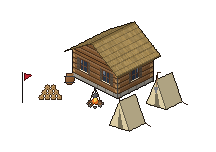
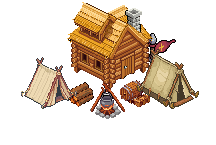
G1: pioneer camp laid out from separate PixelLab pieces; sorting test; docs
The camp drawn whole came with its own patch of earth, wider than its 3x3
tiles and of another colour than our ground (owner's feedback). The cabin,
tents, campfire, flag, logs and supplies are now separate Pixen images laid
out inside the footprint by tools/compose_pixellab_camp.py, with a log floor
and a half-built cabin for the two construction stages.

test_pixellab_building_art_sorts_correctly checks every PixelLab building
image (and its mirror) with its real pivot and size. game_shot --g1=finished
and --g1=sites lay out the set for review. ROADMAP G1 state, ART_SPEC §10.12
(workflow), CLAUDE.md.

Claude-Session: https://claude.ai/code/session_01Ves32FV77dAnaC74UCtajx

diff --git a/tools/compose_pixellab_camp.py b/tools/compose_pixellab_camp.py
@@ -1,0 +1,69 @@
+#!/usr/bin/env python3
+"""Lays out the pioneer camp from separate PixelLab pieces (G1, owner's decision 2026-11-07:
+the camp drawn whole by PixelLab came with its own patch of earth, wider than the 3x3 tiles
+and of another colour than our ground). The pieces stand on our grass, inside the footprint.
+
+Pieces: tools/pixellab_src/buildings/pioneer_camp/parts/*.png (Pixen, no ground). Each piece
+is placed with the middle of its lowest row ("foot") on a point of the footprint grid and
+drawn back to front. Writes base.png, construction_1.png and construction_2.png next to the
+parts folder, with the front corner of the footprint at PIVOT; tools/build_pixellab_buildings.py
+then fits them like any other building (--pivot).
+
+Run: python3 tools/compose_pixellab_camp.py  (needs Pillow)."""
+import os
+
+from PIL import Image
+
+ROOT = os.path.dirname(os.path.dirname(os.path.abspath(__file__)))
+DIR = os.path.join(ROOT, "tools", "pixellab_src", "buildings", "pioneer_camp")
+CANVAS = (240, 200)
+PIVOT = (120, 190)   # front corner of the 3x3 footprint on the canvas
+FOOTPRINT = 3
+
+# Piece -> foot on the footprint grid (x, y in tiles, 0..3; the front corner is (3, 3)).
+SPOTS = {
+    "cabin": (1.35, 1.3),
+    "flag": (2.15, 0.45),
+    "tent_a": (1.0, 2.85),
+    "tent_b": (2.85, 1.0),
+    "campfire": (2.25, 2.25),
+    "logs": (1.45, 2.3),
+    "supplies": (2.3, 1.45),
+}
+# Art name -> pieces (a piece "cabin" may be swapped for its construction stage).
+LAYOUTS = {
+    "base": {"cabin": "cabin", "flag": "flag", "tent_a": "tent_a", "tent_b": "tent_b",
+             "campfire": "campfire", "logs": "logs", "supplies": "supplies"},
+    # Just landed: a log floor for the cabin, one tent up, the supplies unloaded.
+    "construction_1": {"cabin": "cabin_construction_1", "flag": "flag", "tent_a": "tent_a",
+                       "logs": "logs", "supplies": "supplies"},
+    # The cabin's walls going up, both tents and the fire.
+    "construction_2": {"cabin": "cabin_construction_2", "flag": "flag", "tent_a": "tent_a",
+                       "tent_b": "tent_b", "campfire": "campfire", "logs": "logs",
+                       "supplies": "supplies"},
+}
+
+
+def screen(gx, gy):
+    """Canvas pixel of the footprint grid point (gx, gy)."""
+    return (PIVOT[0] + (gx - gy) * 32,
+            PIVOT[1] + (gx + gy - 2 * FOOTPRINT) * 16)
+
+
+def main():
+    for name, pieces in LAYOUTS.items():
+        out = Image.new("RGBA", CANVAS, (0, 0, 0, 0))
+        placed = []
+        for spot, piece in pieces.items():
+            img = Image.open(os.path.join(DIR, "parts", piece + ".png")).convert("RGBA")
+            img = img.crop(img.getbbox())
+            fx, fy = screen(*SPOTS[spot])
+            placed.append((fy, fx, img))
+        for fy, fx, img in sorted(placed, key=lambda p: (p[0], p[1])):
+            out.alpha_composite(img, (round(fx - img.width / 2), round(fy - img.height)))
+        out.save(os.path.join(DIR, name + ".png"))
+        print(name)
+
+
+if __name__ == "__main__":
+    main()

diff --git a/tools/build_pixellab_buildings.py b/tools/build_pixellab_buildings.py
@@ -25,12 +25,12 @@ FIT = os.path.join(ROOT, "tools", "fit_pixellab_building.py")
 WORKSHOP = ["--footprint=2,2", "--entrance=1,1", "--volume=0,0,1,2", "--yard=1,0"]
 BUILDINGS = {
     "pioneer_camp": (
-        # The camp's patch of trodden earth is drawn a little larger than 3x3 tiles: it is
-        # moved down onto the footprint and cut along the front edges.
-        ["--footprint=3,3", "--entrance=1,2", "--inset=-4", "--dx=6", "--dy=13", "--clip-front=1"],
+        # Laid out from separate pieces by tools/compose_pixellab_camp.py (no ground of its
+        # own, inside the 3x3 tiles); the front corner sits at its PIVOT.
+        ["--footprint=3,3", "--entrance=1,2", "--pivot=120,190"],
         [("base", "base", {}),
-         ("construction_1", "construction_1", {"like": "base"}),
-         ("construction_2", "construction_2", {"like": "base"})]),
+         ("construction_1", "construction_1", {}),
+         ("construction_2", "construction_2", {})]),
     "hut": (
         ["--footprint=2,2", "--entrance=1,1"],
         [("base", "base", {}),
@@ -58,6 +58,9 @@ BUILDINGS = {
 
 def main():
     only = sys.argv[1:]
+    if not only or "pioneer_camp" in only:
+        subprocess.run([sys.executable, os.path.join(ROOT, "tools", "compose_pixellab_camp.py")],
+                       check=True)
     for building, (opts, images) in BUILDINGS.items():
         if only and building not in only:
             continue

diff --git a/tools/fit_pixellab_building.py b/tools/fit_pixellab_building.py
@@ -19,6 +19,10 @@ drawn under it as trodden earth (--yard=x,y), like tools/generate_art.gd does.
 Run: python3 tools/fit_pixellab_building.py <raw.png> <assets/buildings/<id>/<name>>
        --footprint=2,2 --entrance=1,1 [--volume=x0,y0,x1,y1] [--inset=4] [--dx=0] [--dy=0]
        [--like=<raw.png>] [--yard=x,y] [--no-brighten] [--margin=12] [--clip-front=<px>]
+       [--pivot=x,y]
+
+--pivot=x,y says where the front corner of the footprint already is on the raw canvas (art
+composed on the footprint by a script, tools/compose_pixellab_camp.py): no shift by the bbox.
 
 --clip-front cuts away whatever hangs below the two front edges of the footprint diamond
 (plus <px> pixels of slack): a patch of ground drawn a little wider than the footprint
@@ -151,7 +155,11 @@ def main():
 
     raw = drop_specks(Image.open(args[0]).convert("RGBA"))
     anchor = drop_specks(Image.open(opts["like"]).convert("RGBA")) if "like" in opts else raw
-    sx, sy = shift_of(anchor, footprint, volume, inset, dx, dy)
+    if "pivot" in opts:
+        px0, py0 = ints(opts["pivot"])
+        sx, sy = -px0 + dx, -py0 + dy
+    else:
+        sx, sy = shift_of(anchor, footprint, volume, inset, dx, dy)
     art = raw if "no-brighten" in opts else brighten(raw)
     box = art.getbbox()
 

diff --git a/CLAUDE.md b/CLAUDE.md
@@ -12,7 +12,7 @@ Strategia 2D w izometrii (Godot 4.7, GDScript), inspirowana Twierdzą i Anno. Gr
 | [docs/ART_SPEC.md](docs/ART_SPEC.md) | skala, animacje, nazwy plików, przepływ pracy z PixelLab |
 | [docs/IDEAS.md](docs/IDEAS.md) | poczekalnia niezatwierdzonych pomysłów |
 
-**Teraz (2026-11-07): poprawki z zaległych ocen gry.** Właściciel ocenił na laptopie M4b-2, M4b-3, M5 (część 3), M6 i UI-1: wszystkie 5/5. Pomiar FPS na laptopie jest zrobiony (ARCHITECTURE §9.3, `src/prototype/m4b3/fps_bench.tscn`). Do zrobienia przed M7: 16 poprawek, wypisanych w ROADMAP pod nagłówkiem „Poprawki z oceny (2026-11-07…)” w sekcjach M4b-2, M4b-3, M5, M6 i UI-1. **Podział (ankieta 2026-11-07): 3 paczki, ocena właściciela po każdej:** (1) rozgrywka i płynność: zacięcia symulacji i podglądu zasięgu, czas ochronny, koga czeka w zatoce, osadnicy rozproszeni, więcej straganiarzy, „Wyślij towar” z żądaniami osady, znacznik bruku; (2) budynki i animacje: podwórko na stos, koła wózków i wozów, płynne wodowanie, wygląd winnicy; (3) grafika terenu i menu: warianty wody i kamienistego gruntu, przejścia rzeka–jezioro i rzeka–morze, poprawki menu głównego. **Paczka 1 scalona do `main` (PR #35, zapis v17). Paczka 2 (podwórka, koła, wodowanie, winnica) zaakceptowana i scalona do `main` 2026-11-07** (stan: ROADMAP, odhaczone punkty z dopiskiem „paczka 2”; zapis bez zmian, v17). **Paczka 3 (grafika terenu i menu) zaakceptowana i scalona do `main` 2026-11-07; wszystkie poprawki z ocen zrobione.** **Następny etap: G1 „Grafika budynków z PixelLab, część 1” (zestaw pionierów, dopisany 2026-11-07 po udanej próbie: Pro Flash, rozjaśnienie `tools/brighten_pixellab.py`; ROADMAP G1, ART_SPEC §10.11, pliki próby `src/prototype/g1/`), potem M7** (stan: ROADMAP, M4b-3 i UI-1, punkty z dopiskiem „paczka 3”; zapis bez zmian, v17). Tekstury: `python3 tools/generate_terrain_variants.py`, zrzuty: `game_shot.tscn -- --map=lakeland --tile=72,40 --zoom=2`, `--map=lakeland --tile=44,98 --zoom=3`, `--map=coast --tile=74,68 --zoom=2`, menu: `menu_shot.tscn -- --out=<plik> [--shift=1,1]`.  Zrzuty paczki 2: `game_shot.tscn -- --plain --tile=56,62 --zoom=2 --yards=woodcutter,fishing_hut,…` (podwórka), `--carts` (koła), `--map=coast --tile=74,70 --zoom=2 --cog_stage=3 --launch=<0..1>` (wodowanie), `--tile=50,58 --zoom=3 --vineyard` (winnica). Zrzut znacznika bruku: `game_shot.tscn -- --tile=56,50 --zoom=2 --roads --paved --plan_paving`, podgląd zasięgu: `--build=well`. Gotowy świat do ocen M6 (szybki zapis, F9): `"$GODOT" --headless --path . -s res://src/prototype/m6/review_world.gd`.
+**Teraz (2026-11-07): poprawki z zaległych ocen gry.** Właściciel ocenił na laptopie M4b-2, M4b-3, M5 (część 3), M6 i UI-1: wszystkie 5/5. Pomiar FPS na laptopie jest zrobiony (ARCHITECTURE §9.3, `src/prototype/m4b3/fps_bench.tscn`). Do zrobienia przed M7: 16 poprawek, wypisanych w ROADMAP pod nagłówkiem „Poprawki z oceny (2026-11-07…)” w sekcjach M4b-2, M4b-3, M5, M6 i UI-1. **Podział (ankieta 2026-11-07): 3 paczki, ocena właściciela po każdej:** (1) rozgrywka i płynność: zacięcia symulacji i podglądu zasięgu, czas ochronny, koga czeka w zatoce, osadnicy rozproszeni, więcej straganiarzy, „Wyślij towar” z żądaniami osady, znacznik bruku; (2) budynki i animacje: podwórko na stos, koła wózków i wozów, płynne wodowanie, wygląd winnicy; (3) grafika terenu i menu: warianty wody i kamienistego gruntu, przejścia rzeka–jezioro i rzeka–morze, poprawki menu głównego. **Paczka 1 scalona do `main` (PR #35, zapis v17). Paczka 2 (podwórka, koła, wodowanie, winnica) zaakceptowana i scalona do `main` 2026-11-07** (stan: ROADMAP, odhaczone punkty z dopiskiem „paczka 2”; zapis bez zmian, v17). **Paczka 3 (grafika terenu i menu) zaakceptowana i scalona do `main` 2026-11-07; wszystkie poprawki z ocen zrobione.** **G1 „Grafika budynków z PixelLab, część 1” (zestaw pionierów) gotowy 2026-11-07 na gałęzi `claude/serene-keller-d3idtx`, czeka na ocenę wyglądu właściciela** (ROADMAP G1 „Stan”, ART_SPEC §10.12: Pixen zamiast Pro Flash, obóz z osobnych elementów; budowa grafik `python3 tools/build_pixellab_buildings.py`, zrzuty `game_shot.tscn -- --map=lakeland --tile=84,64 --zoom=1 --g1=finished|sites`; **po `tools/generate_art.gd` przywróć te budynki: `git checkout assets/buildings/{pioneer_camp,hut,woodcutter,quarry,fishing_hut}/`**), potem M7 (stan: ROADMAP, M4b-3 i UI-1, punkty z dopiskiem „paczka 3”; zapis bez zmian, v17). Tekstury: `python3 tools/generate_terrain_variants.py`, zrzuty: `game_shot.tscn -- --map=lakeland --tile=72,40 --zoom=2`, `--map=lakeland --tile=44,98 --zoom=3`, `--map=coast --tile=74,68 --zoom=2`, menu: `menu_shot.tscn -- --out=<plik> [--shift=1,1]`.  Zrzuty paczki 2: `game_shot.tscn -- --plain --tile=56,62 --zoom=2 --yards=woodcutter,fishing_hut,…` (podwórka), `--carts` (koła), `--map=coast --tile=74,70 --zoom=2 --cog_stage=3 --launch=<0..1>` (wodowanie), `--tile=50,58 --zoom=3 --vineyard` (winnica). Zrzut znacznika bruku: `game_shot.tscn -- --tile=56,50 --zoom=2 --roads --paved --plan_paving`, podgląd zasięgu: `--build=well`. Gotowy świat do ocen M6 (szybki zapis, F9): `"$GODOT" --headless --path . -s res://src/prototype/m6/review_world.gd`.
 
 **Poprzedni etap:** N1 „Nabrzeża i port” (ROADMAP, N1): plan zaakceptowany 2026-11-07 (wersja średnia, 2 części, ocena po każdej), przed M7. **Część 1 (pomost i nabrzeże w 8 kierunkach i na brzegu, profil jak w Anno, miejsce cumowania, jedna bryła portu, zapis v15) zaakceptowana i scalona do `main` 2026-11-07. Część 2 (dźwig przeładunkowy z kołem deptakowym, magazyn portowy, automatyczny gracz z portem i kogą na „Wybrzeżu”, zapis v16) zaakceptowana i scalona do `main` 2026-11-07; etap N1 zamknięty** (stan: ROADMAP, N1, „Część 2, stan”). **Następny etap: M7.** Zrzut dźwigu: `game_shot.tscn -- --map=coast --tile=73,103 --zoom=2 --port --quays --crane [--lift=<0..1>]`. Zrzut nabrzeży: `game_shot.tscn -- --map=coast --tile=76,84 --zoom=2 --port --quays`. Fixtura v16: `"$GODOT" --headless --path . -s res://tools/build_crane_fixture.gd`, v15: `"$GODOT" --headless --path . -s res://tools/build_quay_fixture.gd`. Potem M7 „Wojsko, mury i oblężenia” (plan i decyzje zaakceptowane 2026-11-07, ROADMAP, M7).
 

diff --git a/docs/ART_SPEC.md b/docs/ART_SPEC.md
@@ -472,3 +472,14 @@ Narzędzie: `tools/generate_goods.gd`, wynik w `assets/goods/` i `assets/nature/
 - **`create_object_pro_flash`** (widok „high top-down”, 1 kierunek; 6 generacji przy 152 px, 9 przy 216 px): **wybrany**. Ciepłe kolory, strzecha, belki, dobrze pasuje do terenu. Wychodzi mniejszy niż płótno (obóz 142×108 zamiast ok. 192 szerokości), drzwi chaty na prawej ścianie.
 - **`create_map_object`** (widok „high top-down”, „high detail”): chata ładna, ale bardziej bajkowa i trochę za duża; obóz wyszedł jako wysepka ze skarpą ziemi pod spodem (do odrzucenia).
 - **Za ciemne:** budynki Pro Flash są ciemniejsze niż teren. Rozjaśnienie skryptem `python3 tools/brighten_pixellab.py <in> <out>` (krzywa gamma 0,65 na jasności i 95% nasycenia, poziom „średni” wybrany przez właściciela z trzech): ciemne i średnie tony jaśnieją, światła i kontury zostają. Stosujemy je do każdego budynku z PixelLab, żeby całe miasto było spójne.
+
+### 10.12 Budynki z PixelLab, zestaw pionierów (G1, 2026-11-07)
+
+Przepływ pracy dla kolejnych partii budynków z PixelLab:
+- **Narzędzie:** `create_image_pixen` (1 generacja), `no_background`, `view: high top-down`, `direction: south-east`, `detail: highly detailed`, `outline: selective outline`. Płótno: 152×152 dla budynku 2×2 (wychodzi ok. 120–130 px szerokości), 120×120 dla wąskiej chaty warsztatu (2 tylne kafle), 32–96 dla drobnych elementów. Kilka ziaren (`seed`) i wybór najlepszego.
+- **Opis:** zaczyna się od „isometric … 2:1 isometric view from above, two walls visible”, potem materiały, na końcu „warm earthy colors, no ground, no shadow”. **Drzwi:** dom „the wooden front door is in the gable wall facing the lower right”, wąski warsztat „the long side wall with the wooden door faces the lower right, the narrow gable end faces the lower left” (orientacja 0: drzwi na ścianie +x, §7). Pixen lubi dorysować płytę ziemi albo trawy: wtedy „the building stands directly on a transparent background, no ground tile, no grass, no terrain block”.
+- **Przeróbki:** `edit_image_pixen` (1 generacja) na adresie gotowego obrazka. Etap 1: „remove the whole … completely, … only a flat low grey stone foundation outline … wooden stakes with a string, a pile of logs and a stack of planks”. Etap 2: „half-built … bare roof rafters …, scaffolding and a ladder”. Tył domu: „remove the door from the gable wall on the right and fill it with the same …, add a small window there instead”. Mniejszy rozmiar elementu: przeróbka z `width`/`height` mniejszymi od wejścia (model rysuje od nowa, nie skaluje).
+- **Do gry:** surowe obrazki w `tools/pixellab_src/buildings/<id>/<nazwa>.png`, lista w `tools/build_pixellab_buildings.py`, a `tools/fit_pixellab_building.py` rozjaśnia (§10.11, poziom średni), usuwa okruchy pikseli, ustawia budynek na kratkach (środek obrazka nad środkiem obrysu, najniższy piksel 4 px nad przednim rogiem), dorysowuje podwórko warsztatu i zapisuje `<nazwa>.png` z `.json` (pivot w przednim rogu). Etap budowy i tył biorą przesunięcie gotowego budynku (`--like`), więc leżą dokładnie na nim.
+- **Obóz pionierów** jest złożony z osobnych elementów (`tools/compose_pixellab_camp.py`, części w `parts/`), bez własnego gruntu, w rombie 3×3.
+- **Sortowanie:** grafiki są szersze niż z kodu (okap, rekwizyty), więc `test_pixellab_building_art_sorts_correctly` sprawdza każdą z jej prawdziwym pivotem i rozmiarem, także w lustrze.
+- Nie przywracamy tych budynków przez `tools/generate_art.gd`: po nim `git checkout assets/buildings/{pioneer_camp,hut,woodcutter,quarry,fishing_hut}/` albo `python3 tools/build_pixellab_buildings.py`.
